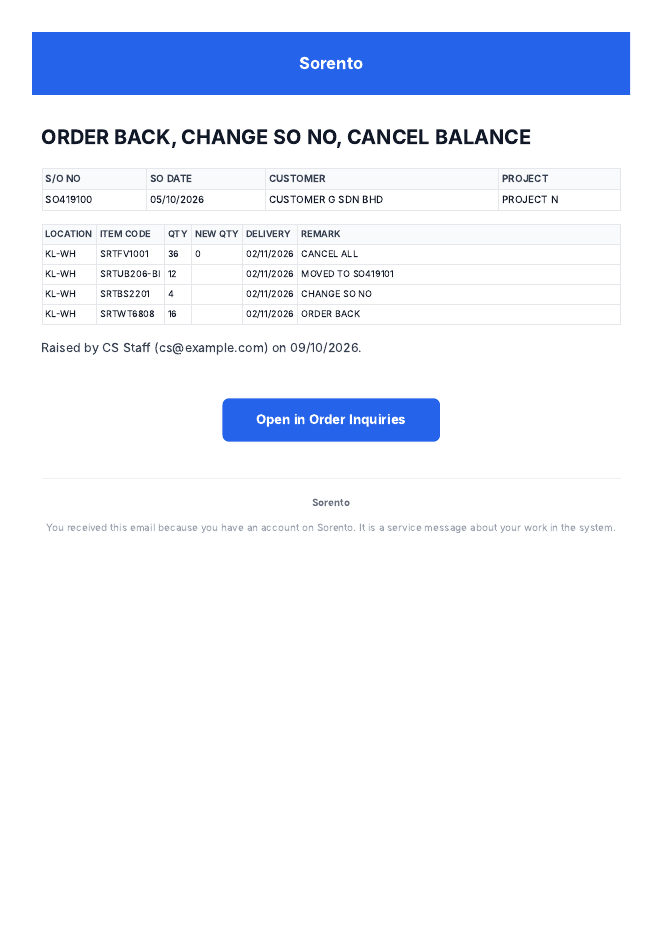
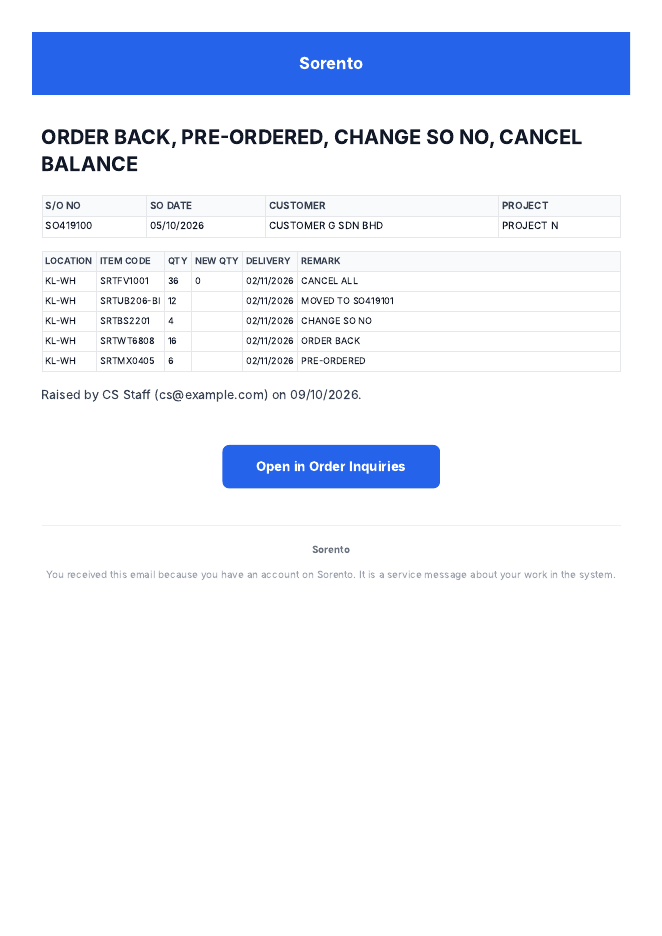
feat(scm): OI handover REMARK says PRE-ORDERED (owner Q-B), worklist spelling kept
Claude-Session: https://claude.ai/code/session_0128QV6Rszh9fo9ABpWJyzZC

diff --git a/sorento_crm_backend/app/services/project_order_inquiry_service.py b/sorento_crm_backend/app/services/project_order_inquiry_service.py
@@ -377,6 +377,11 @@ def _handover_verb_keys(
 #: CODE, so the remark only says that it changed.
 _NEW_ITEM_CODE = "NEW ITEM CODE"
 
+#: Where the handover email's REMARK words a verb differently from `REMARK_SPELLING`, which
+#: stays the client's own spelling for the OI worklist and export (`_remark`). Owner, 9 Oct
+#: (Q-B): "PRE-ORDERED" alone; the word already means "do not order".
+_HANDOVER_REMARK_SPELLING = {**REMARK_SPELLING, IV_PRE_ORDERED: "PRE-ORDERED"}
+
 
 def handover_remark(
     kind: str, row: Any, was: Optional[Dict[str, Any]], qty: Optional[Decimal] = None
@@ -392,7 +397,7 @@ def handover_remark(
     number or code another column already shows: ITEM CODE prints the new code, QTY /
     NEW QTY and DELIVERY / NEW DATE print the moves.
 
-    * `kind="raised"`: the verb's own spelling (`REMARK_SPELLING`); a CHANGE SO NO whose
+    * `kind="raised"`: the verb's email spelling (`_HANDOVER_REMARK_SPELLING`); a CHANGE SO NO whose
       target is known reads `MOVED TO <SO>`; an ORDER BACK prints no document (Q-A).
       `row.note` itself is NEVER printed (OI-EMAIL-PRINT, owner 9 Oct): it is a bag of
       internal stamps ("Planning keeps this Buy: ...", "Replaces 20 used; ...",
@@ -409,7 +414,7 @@ def handover_remark(
     told off a row whose own quantity did not move.
     """
     if kind == "raised":
-        label = REMARK_SPELLING.get(row.verb, row.verb or "")
+        label = _HANDOVER_REMARK_SPELLING.get(row.verb, row.verb or "")
         if row.verb == IV_CHANGE_SO:
             # The one fact a note carries that IS the instruction: where the line moved
             # (`_change_note`'s "Moved to <SO>" for a repoint). Read back off that fixed

diff --git a/documentation/plans/scm/evidence/oi-email-print/render_real.py b/documentation/plans/scm/evidence/oi-email-print/render_real.py
@@ -8,7 +8,7 @@ sys.path.insert(0, ".")
 from app.models.email_template import EmailTemplate
 from app.services.email_template_service import EmailTemplateService
 from app.services.project_order_inquiry_service import (
-    IV_ORDER, IV_ORDER_BACK, IV_DELAY, IV_CHANGE_SO, _build_handover_context, _format_handover_was,
+    IV_ORDER, IV_ORDER_BACK, IV_DELAY, IV_CHANGE_SO, IV_PRE_ORDERED, _build_handover_context, _format_handover_was,
     _handover_fmt_date, _handover_verb_keys, handover_remark,
 )
 from tests._pg_fixture import blank_session
@@ -90,6 +90,9 @@ cases = {
         item("SO419100", "05/10/2026", "p6", "CUSTOMER G SDN BHD", "PROJECT N", "raised", 4,
              verb=IV_ORDER_BACK, qty=16, delivery_date=D(2026, 11, 2), item_code="SRTWT6808",
              stock_location="KL-WH", cited_document="SPO-2026/08-0061"),
+        item("SO419100", "05/10/2026", "p6", "CUSTOMER G SDN BHD", "PROJECT N", "raised", 5,
+             verb=IV_PRE_ORDERED, qty=6, delivery_date=D(2026, 11, 2), item_code="SRTMX0405",
+             stock_location="KL-WH"),
     ],
     "case3": [  # long order: 42 lines
         item("SO418900", "01/10/2026", "p4", "CUSTOMER D SDN BHD", "PROJECT M", "raised", i,

diff --git a/sorento_crm_backend/tests/test_oi_email_print.py b/sorento_crm_backend/tests/test_oi_email_print.py
@@ -173,6 +173,23 @@ def test_remark_wording_owner_9_oct():
     ) == "ORDER, NEW ITEM CODE"
 
 
+def test_pre_ordered_is_one_word_in_the_email_only():
+    """AC-P13 (owner Q-B, 9 Oct): the email says PRE-ORDERED. The OI worklist and export keep
+    the client's own spelling (`REMARK_SPELLING`, read by `_remark`), which the ruling did not
+    touch."""
+    from app.services.project_order_inquiry_service import (
+        IV_PRE_ORDERED,
+        REMARK_SPELLING,
+        handover_remark,
+    )
+
+    assert handover_remark("raised", _remark_row(verb=IV_PRE_ORDERED), None) == "PRE-ORDERED"
+    assert handover_remark(
+        "raised", _remark_row(verb=IV_PRE_ORDERED, item_code="NEW-1"), {"item_code": "OLD-1"}
+    ) == "PRE-ORDERED, NEW ITEM CODE"
+    assert REMARK_SPELLING[IV_PRE_ORDERED] == "PRE-ORDERED, DO NOT ORDER"
+
+
 def test_headline_word_for_a_product_change_matches_remark():
     """AC-P13: the headline names the product change the way REMARK does."""
     from app.services.project_order_inquiry_service import _HANDOVER_VERB_LABEL

diff --git a/sorento_crm_backend/tests/test_order_inquiry_handover_automation.py b/sorento_crm_backend/tests/test_order_inquiry_handover_automation.py
@@ -197,7 +197,7 @@ def test_handover_remark_raised_rows_use_the_verb_label():
     )
     assert (
         handover_remark("raised", _row(verb=IV_PRE_ORDERED), None)
-        == "PRE-ORDERED, DO NOT ORDER"
+        == "PRE-ORDERED"  # owner, 9 Oct (Q-B)
     )
     assert (
         handover_remark("raised", _row(verb=IV_ALREADY_INBOUND), None)

diff --git a/documentation/plans/scm/PLAN-oi-email-print-09oct.md b/documentation/plans/scm/PLAN-oi-email-print-09oct.md
@@ -1,6 +1,6 @@
 # PLAN: OI handover email - no multi-line cells, fits one printed page (OI-EMAIL-PRINT)
 
-Status: Build, REMARK wording per owner rulings 9 Oct (Q-A, Q-C, Q-D, Q-E built; Q-B pending), then review + print pass (feature track, abbreviated per the crew brief; carries one data migration on `email_templates`, so not the small fix track). Layout passed the owner hand test 9 Oct.
+Status: Build complete, REMARK wording per owner rulings 9 Oct (Q-A to Q-E all built), on review + hand test (feature track, abbreviated per the crew brief; carries one data migration on `email_templates`, so not the small fix track). Layout passed the owner hand test 9 Oct.
 Lane: OI-EMAIL-PRINT, branch `claude/oi-email-print-ucrsgl`, PR #1543
 Domain: scm (order inquiry handover email, `order_inquiry_handover` automation) + email layout shell
 UAC: `oi-email-print-09oct-acceptance-criteria.md` alongside
@@ -59,7 +59,8 @@ and S/O NO repeat on every row.
 
 1. **REMARK is one short instruction.** Wording per the owner's rulings of 9 Oct in
    `REMARK-wording-oi-email-print-09oct.md` (no numbers or codes another column shows; ORDER
-   BACK without document; MOVED TO <SO>; CANCEL N / CANCEL ALL; NEW ITEM CODE). Earlier text: It is the verb's own spelling plus only the structured
+   BACK without document; MOVED TO <SO>; CANCEL N / CANCEL ALL; NEW ITEM CODE; PRE-ORDERED).
+   Earlier text: It is the verb's own spelling plus only the structured
    facts that belong to that verb: `ORDER`, `DELAY`, `ADVANCE`, `ORDER N`,
    `CANCEL BALANCE N NOS`, `ORDER BACK <cited document>`, `PRE-ORDERED, DO NOT ORDER`,
    `CHANGE ITEM CODE TO X (WAS Y)`, joined by ", " as today. `row.note` is never printed in

diff --git a/documentation/plans/scm/REMARK-wording-oi-email-print-09oct.md b/documentation/plans/scm/REMARK-wording-oi-email-print-09oct.md
@@ -6,8 +6,9 @@ Owner, after the layout PASS (9 Oct, about 09:5x): REMARK must be simple and con
 **Owner rulings (9 Oct), built:** Q-A (b) `ORDER BACK` with no document number; Q-C (a)
 `MOVED TO <SO>`; Q-D (a) `ORDER 64` / `CANCEL 4` / `CANCEL ALL`; Q-E (a) `NEW ITEM CODE`;
 combos as proposed; the headline word for a product change matches (`NEW ITEM CODE`).
-**Q-B pending** (owner asked what PRE-ORDERED is; answered on PR #1543): row 5 still reads
-`PRE-ORDERED, DO NOT ORDER`. Row 3's proposal below is superseded by Q-A (b).
+**Q-B (a)** (ruled after the scenario answer on PR #1543): the email says `PRE-ORDERED`; the
+verb is kept, and the OI worklist / export keep the client's `PRE-ORDERED, DO NOT ORDER`
+(`REMARK_SPELLING`, read by `_remark`). Row 3's proposal below is superseded by Q-A (b).
 
 Measured on head 12ecdc24. All REMARK text comes from four places:
 

diff --git a/documentation/plans/scm/oi-email-print-09oct-acceptance-criteria.md b/documentation/plans/scm/oi-email-print-09oct-acceptance-criteria.md
@@ -15,7 +15,8 @@ Plan: `PLAN-oi-email-print-09oct.md`. Mock: `ALIGN-oi-email-print-09oct.html`.
   `REMARK-wording-oi-email-print-09oct.md`): `ORDER BACK` with no document (Q-A); `ORDER N`,
   `CANCEL N`, `CANCEL ALL` (Q-D); a product change adds `NEW ITEM CODE` (Q-E), and the
   headline says `NEW ITEM CODE` too. Combos join by ", ", e.g. `ADVANCE, CANCEL 5`,
-  `DELAY, ORDER 6, NEW ITEM CODE`. `PRE-ORDERED, DO NOT ORDER` is unchanged until Q-B is ruled.
+  `DELAY, ORDER 6, NEW ITEM CODE`. `PRE-ORDERED` (Q-B); the OI worklist and export keep
+  `PRE-ORDERED, DO NOT ORDER`.
 
 ## Layout
 
